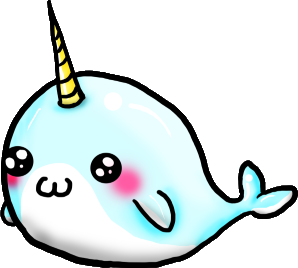
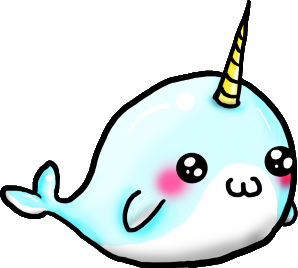
S2

diff --git a/code.js b/code.js
@@ -3,24 +3,22 @@ const s2 = new S2.S2(document.querySelector("canvas"));
 
 class Narwhal extends S2.Entity {
     constructor(x, y) {
-        super(x, y, new S2.Sprite("images/narwhal.png"));
-        this.vector = new S2.Vector(1, 1);
-        this.velocity = 1;
-        this.transform.scale.x = -1;
-        this.transform.position.x += this.sprite.width;
+        super(x, y);
+        this.narwhalImage = new S2.Sprite("images/narwhal.png");
+        this.narwhalImageInverted = new S2.Sprite("images/narwhal_inverted.png");
+        this.sprite = this.narwhalImage;
+        this.velocity = 6;
+        this.vector = new S2.Vector(this.velocity, this.velocity);
     }
 
     update() {
         if (this.transform.position.x < 0) {
             this.vector.x = this.velocity;
-            // Flip the image horizontally
-            this.transform.scale.x = -1;
-            this.transform.position.x += this.sprite.width;
+            this.sprite = this.narwhalImage;
         }
-        if (this.transform.position.x > s2.width) {
+        if (this.transform.position.x + this.sprite.width > s2.width) {
             this.vector.x = -this.velocity;
-            this.transform.scale.x = 1;
-            this.transform.position.x -= this.sprite.width;
+            this.sprite = this.narwhalImageInverted;
         }
         if (this.transform.position.y < 0) {
             this.vector.y = this.velocity;

diff --git a/src/S2.js b/src/S2.js
@@ -231,7 +231,6 @@ S2.Sprite = class {
         this._img = new Image();
         this._isLoaded = false;
         this._img.onload = e => {
-            console.log("image loaded successfully");
             this._isLoaded = true;
         }
         this._img.onerror = e => {
